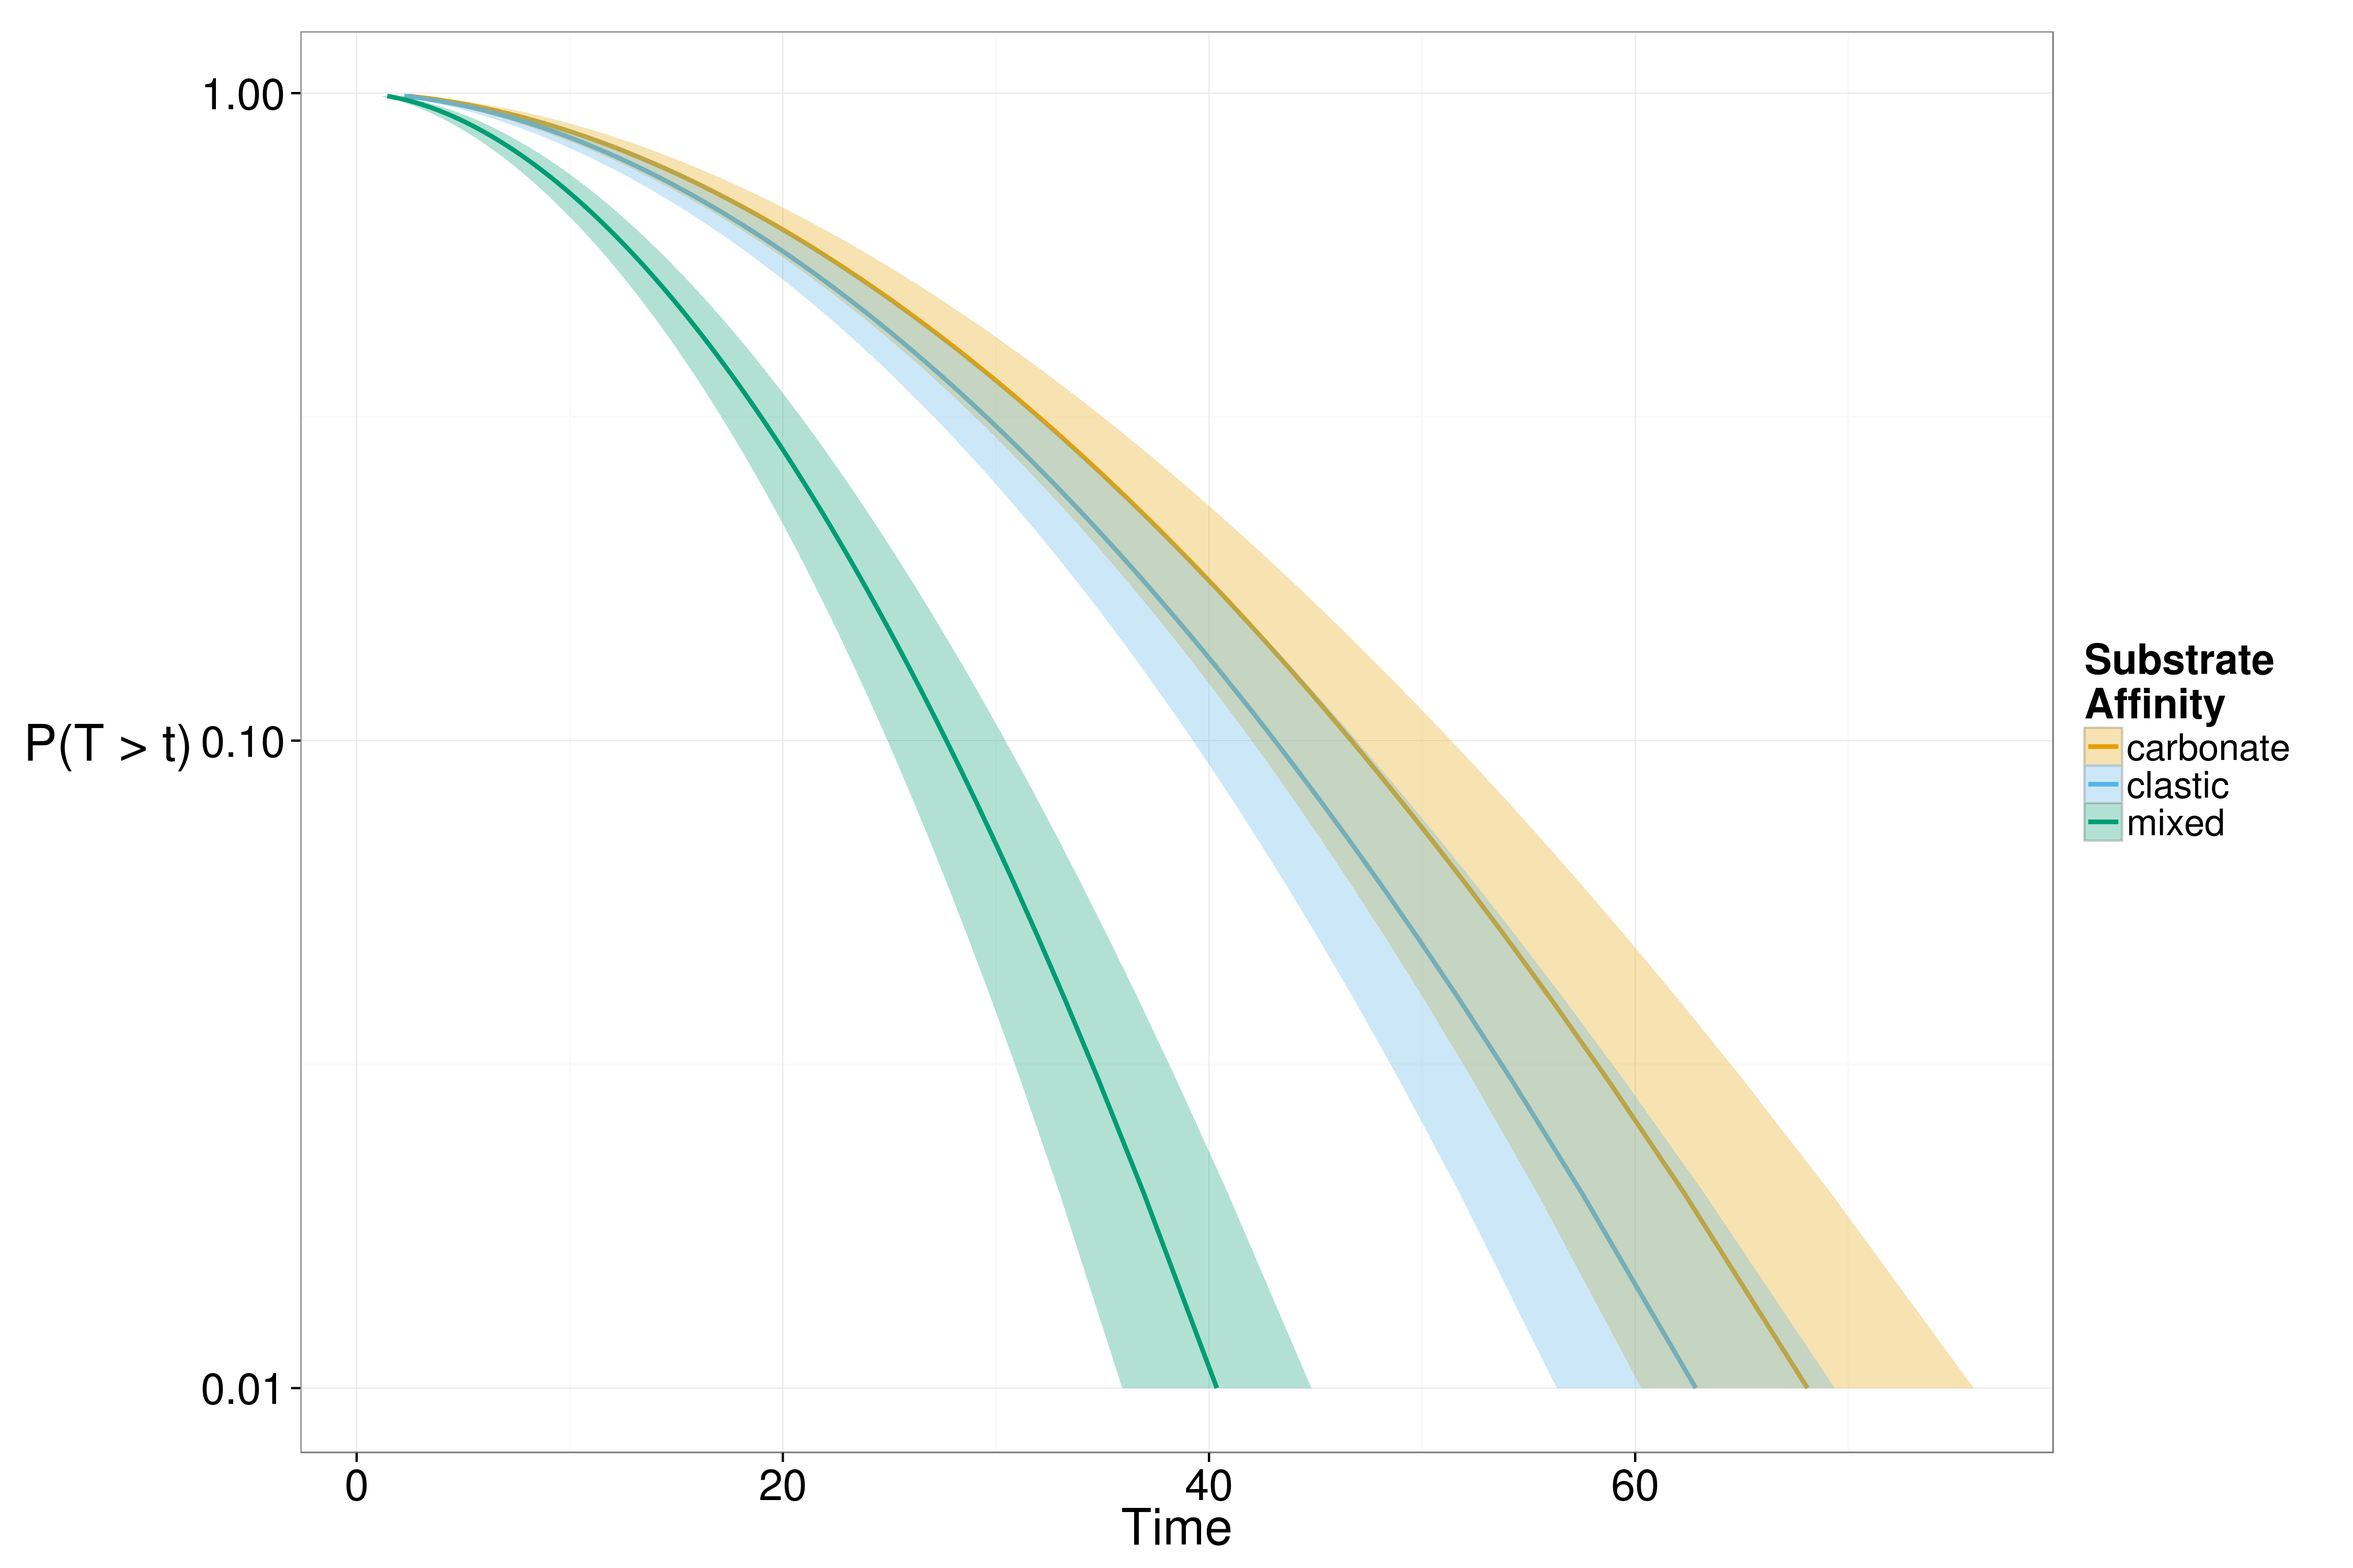
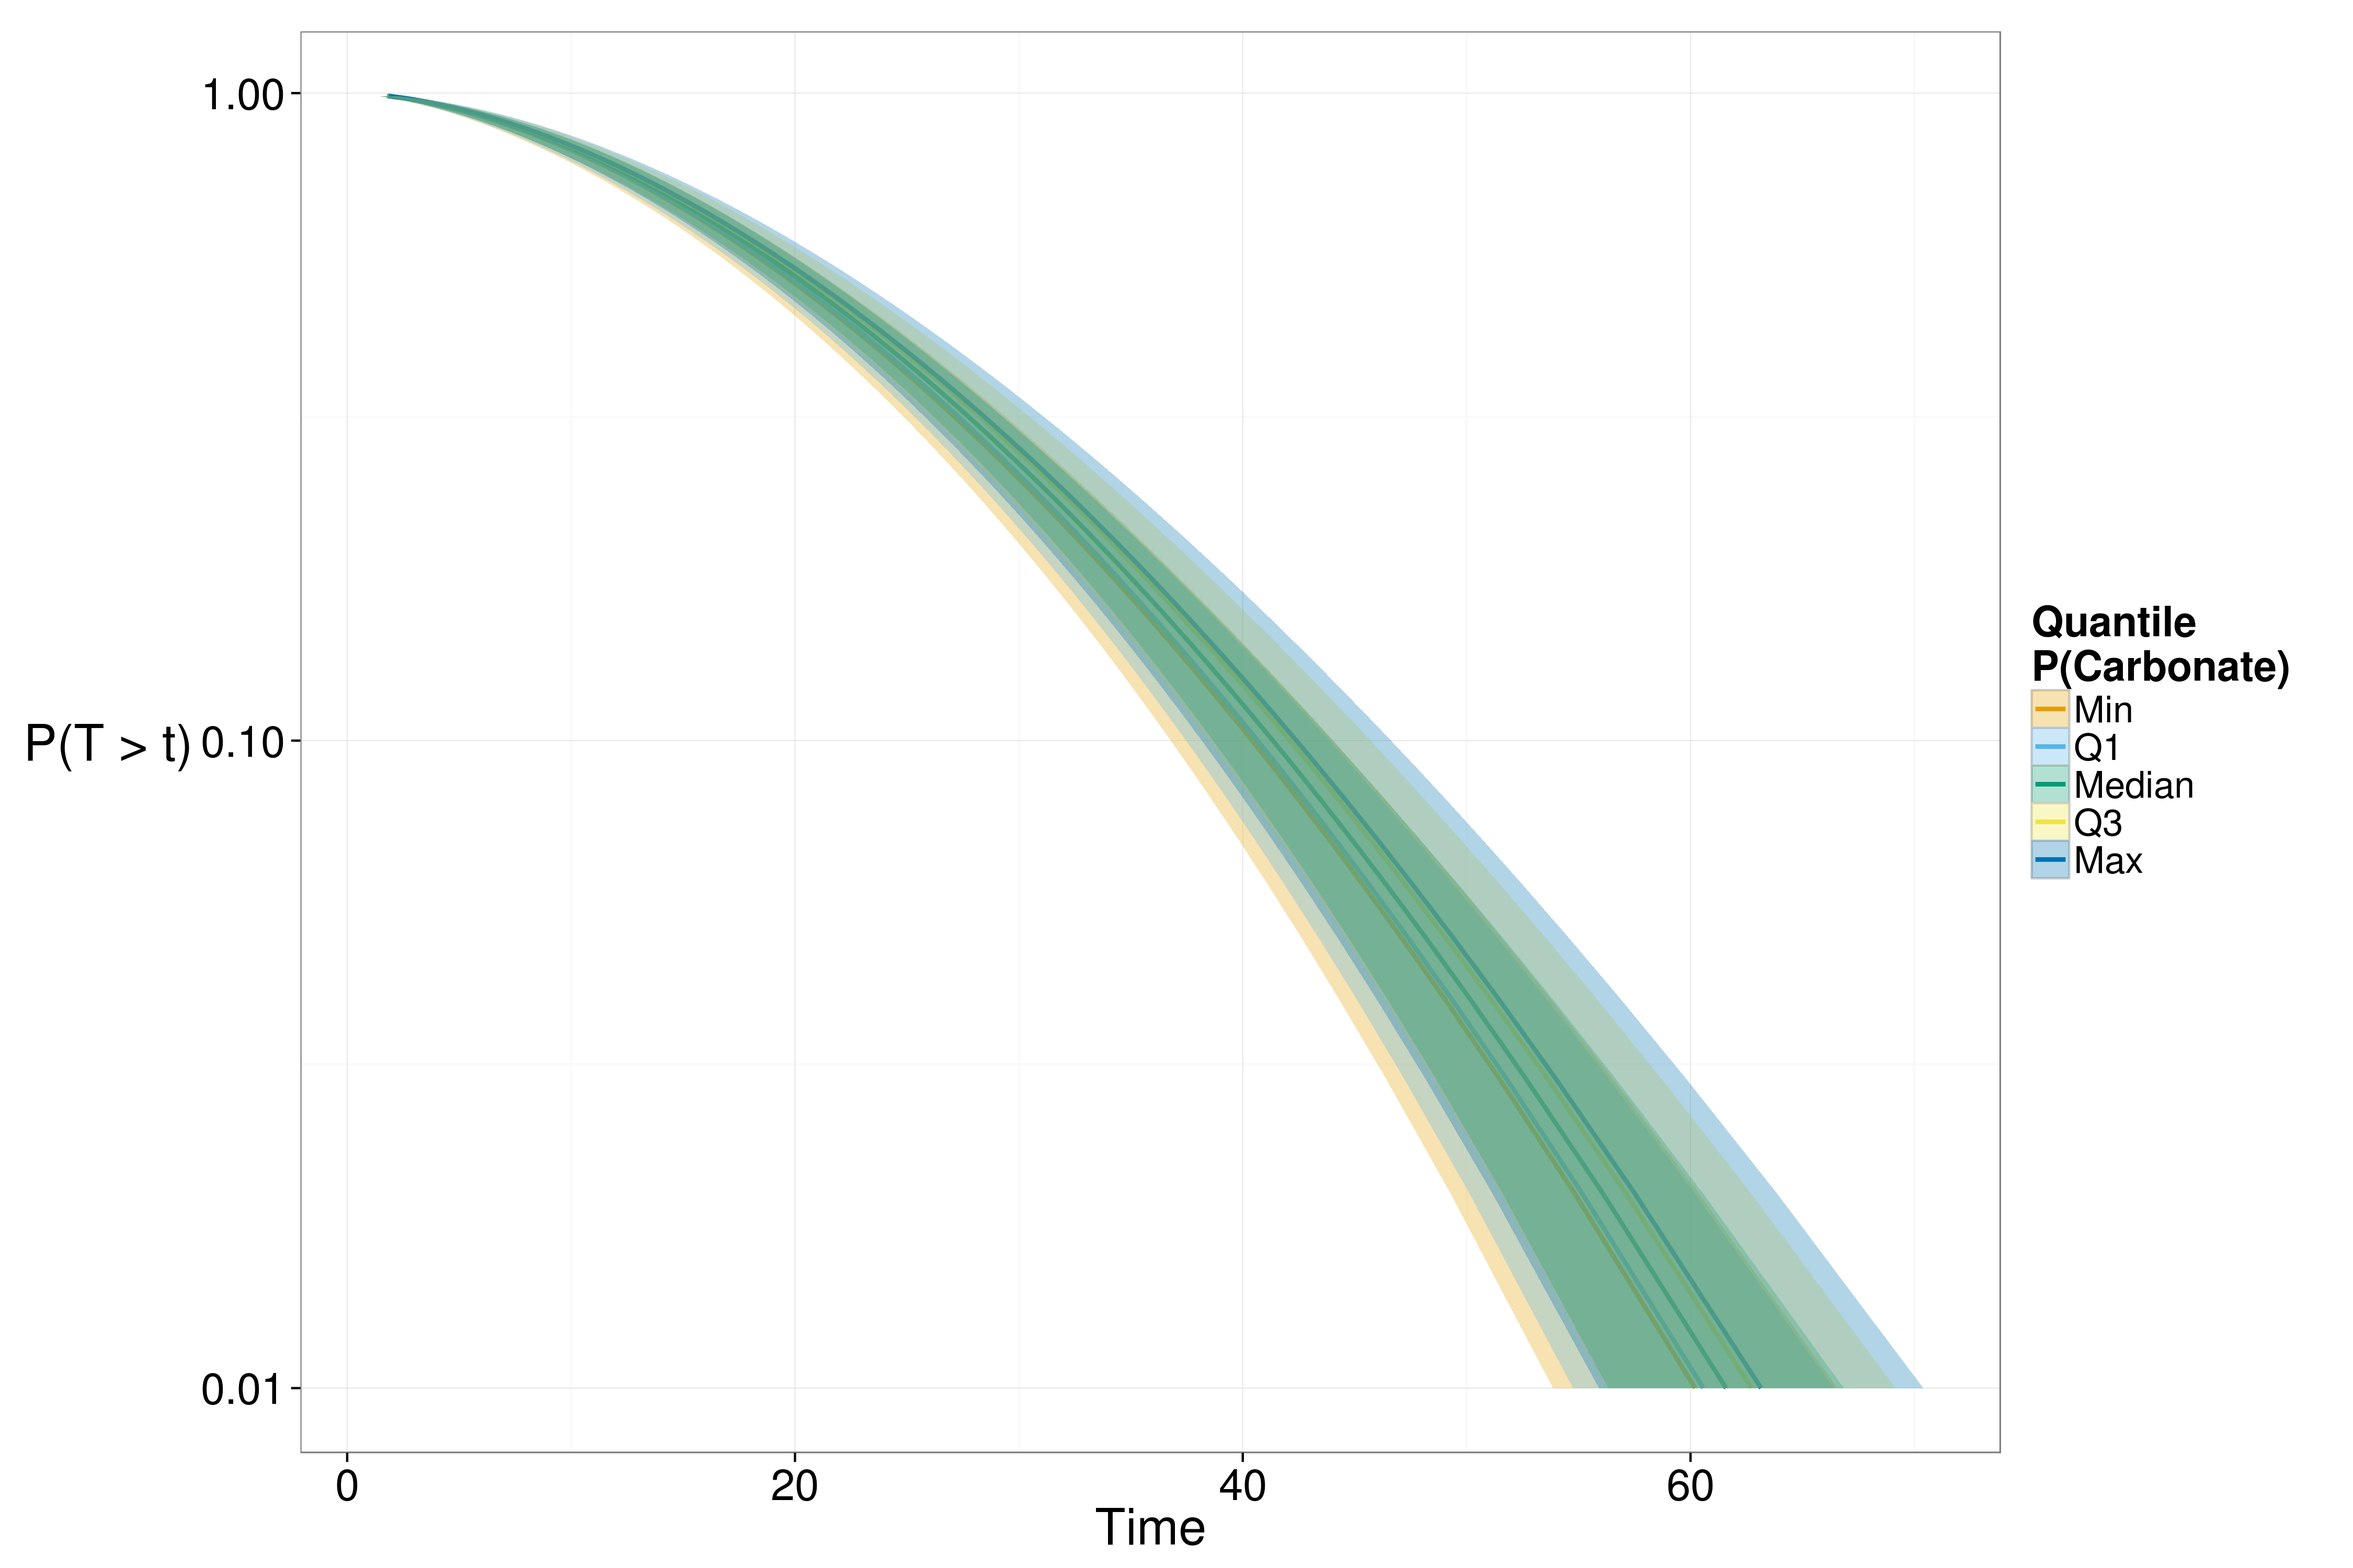
moved to using probabilty as predictor, not category

diff --git a/doc/mod_sel.tex b/doc/mod_sel.tex
@@ -1,42 +1,42 @@
 % latex table generated in R 3.1.0 by xtable 1.7-3 package
-% Wed Jul  2 12:41:09 2014
+% Wed Jul  2 12:56:10 2014
 \begin{table}[ht]
 \centering
 \begin{tabular}{llrrrr}
  formula & distribution & shape & df & AICc & weight \\ 
   \hline
-\~{} aff + size + occu & weibull & 1.99 & 6 & 856.1177 & 0.48 \\ 
-  \~{} aff + hab + size + occu & weibull & 2.01 & 8 & 856.3720 & 0.42 \\ 
-  \~{} aff + hab + occu & weibull & 1.95 & 7 & 860.8457 & 0.05 \\ 
-  \~{} aff + occu & weibull & 1.90 & 5 & 862.8330 & 0.02 \\ 
-  \~{} size + occu & weibull & 1.89 & 4 & 863.7446 & 0.01 \\ 
-  \~{} aff + size & weibull & 1.92 & 5 & 864.0194 & 0.01 \\ 
-  \~{} aff + hab + size & weibull & 1.94 & 7 & 864.6299 & 0.01 \\ 
-  \~{} hab + size + occu & weibull & 1.90 & 6 & 865.4920 & 0.00 \\ 
-  \~{} aff + hab & weibull & 1.87 & 6 & 870.4372 & 0.00 \\ 
-  \~{} occu & weibull & 1.82 & 3 & 871.1951 & 0.00 \\ 
-  \~{} hab + occu & weibull & 1.84 & 5 & 871.3773 & 0.00 \\ 
-  \~{} aff & weibull & 1.84 & 4 & 871.6307 & 0.00 \\ 
+\~{} aff + size + occu & weibull & 1.91 & 5 & 864.0454 & 0.35 \\ 
+  \~{} size + occu & weibull & 1.89 & 4 & 864.0507 & 0.34 \\ 
+  \~{} aff + hab + size + occu & weibull & 1.91 & 7 & 865.7894 & 0.14 \\ 
+  \~{} hab + size + occu & weibull & 1.90 & 6 & 866.0270 & 0.13 \\ 
+  \~{} occu & weibull & 1.82 & 3 & 871.5090 & 0.01 \\ 
+  \~{} aff + occu & weibull & 1.83 & 4 & 871.9118 & 0.01 \\ 
+  \~{} hab + occu & weibull & 1.84 & 5 & 872.0118 & 0.01 \\ 
+  \~{} aff + hab + occu & weibull & 1.85 & 6 & 872.1560 & 0.01 \\ 
   \~{} size & weibull & 1.82 & 3 & 872.7636 & 0.00 \\ 
+  \~{} aff + size & weibull & 1.82 & 4 & 874.5096 & 0.00 \\ 
   \~{} hab + size & weibull & 1.82 & 5 & 874.5109 & 0.00 \\ 
+  \~{} aff + hab + size & weibull & 1.83 & 6 & 876.1868 & 0.00 \\ 
   \~{} 1 & weibull & 1.74 & 2 & 882.2148 & 0.00 \\ 
   \~{} hab & weibull & 1.75 & 4 & 882.8677 & 0.00 \\ 
-  \~{} aff + size + occu & exponential &  & 5 & 912.1997 & 0.00 \\ 
-  \~{} size + occu & exponential &  & 3 & 912.7835 & 0.00 \\ 
-  \~{} aff + occu & exponential &  & 4 & 913.1117 & 0.00 \\ 
-  \~{} aff + size & exponential &  & 4 & 914.1990 & 0.00 \\ 
-  \~{} aff + hab + size + occu & exponential &  & 7 & 914.2941 & 0.00 \\ 
-  \~{} aff + hab + occu & exponential &  & 6 & 914.3651 & 0.00 \\ 
-  \~{} occu & exponential &  & 2 & 914.7541 & 0.00 \\ 
+  \~{} aff & weibull & 1.74 & 3 & 884.1832 & 0.00 \\ 
+  \~{} aff + hab & weibull & 1.75 & 5 & 884.7912 & 0.00 \\ 
+  \~{} size + occu & exponential &  & 3 & 912.8705 & 0.00 \\ 
+  \~{} aff + size + occu & exponential &  & 4 & 913.8344 & 0.00 \\ 
+  \~{} occu & exponential &  & 2 & 914.8603 & 0.00 \\ 
   \~{} size & exponential &  & 2 & 915.3276 & 0.00 \\ 
-  \~{} hab + size + occu & exponential &  & 5 & 915.3463 & 0.00 \\ 
-  \~{} aff & exponential &  & 3 & 915.8835 & 0.00 \\ 
-  \~{} aff + hab + size & exponential &  & 6 & 916.3006 & 0.00 \\ 
-  \~{} hab + occu & exponential &  & 4 & 916.5402 & 0.00 \\ 
-  \~{} aff + hab & exponential &  & 5 & 917.1553 & 0.00 \\ 
+  \~{} hab + size + occu & exponential &  & 5 & 915.5241 & 0.00 \\ 
+  \~{} aff + occu & exponential &  & 3 & 915.9477 & 0.00 \\ 
+  \~{} aff + hab + size + occu & exponential &  & 6 & 916.2873 & 0.00 \\ 
+  \~{} hab + occu & exponential &  & 4 & 916.7705 & 0.00 \\ 
+  \~{} aff + size & exponential &  & 3 & 917.1036 & 0.00 \\ 
+  \~{} aff + hab + occu & exponential &  & 5 & 917.6431 & 0.00 \\ 
   \~{} hab + size & exponential &  & 4 & 917.8097 & 0.00 \\ 
   \~{} 1 & exponential &  & 1 & 918.7252 & 0.00 \\ 
+  \~{} aff + hab + size & exponential &  & 5 & 919.4837 & 0.00 \\ 
   \~{} hab & exponential &  & 3 & 920.4486 & 0.00 \\ 
+  \~{} aff & exponential &  & 2 & 920.6344 & 0.00 \\ 
+  \~{} aff + hab & exponential &  & 4 & 922.2742 & 0.00 \\ 
   \end{tabular}
 \label{tab:mod}
 \end{table}

diff --git a/doc/form_lith.tex b/doc/form_lith.tex
@@ -1,5 +1,5 @@
 % latex table generated in R 3.1.0 by xtable 1.7-3 package
-% Wed Jul  2 12:41:14 2014
+% Wed Jul  2 13:00:20 2014
 \begin{table}[ht]
 \centering
 \begin{tabular}{lllll}

diff --git a/doc/paleoenv_tab.tex b/doc/paleoenv_tab.tex
@@ -1,5 +1,5 @@
 % latex table generated in R 3.1.0 by xtable 1.7-3 package
-% Wed Jul  2 12:41:15 2014
+% Wed Jul  2 13:00:22 2014
 \begin{table}[ht]
 \centering
 \begin{tabular}{llll}
